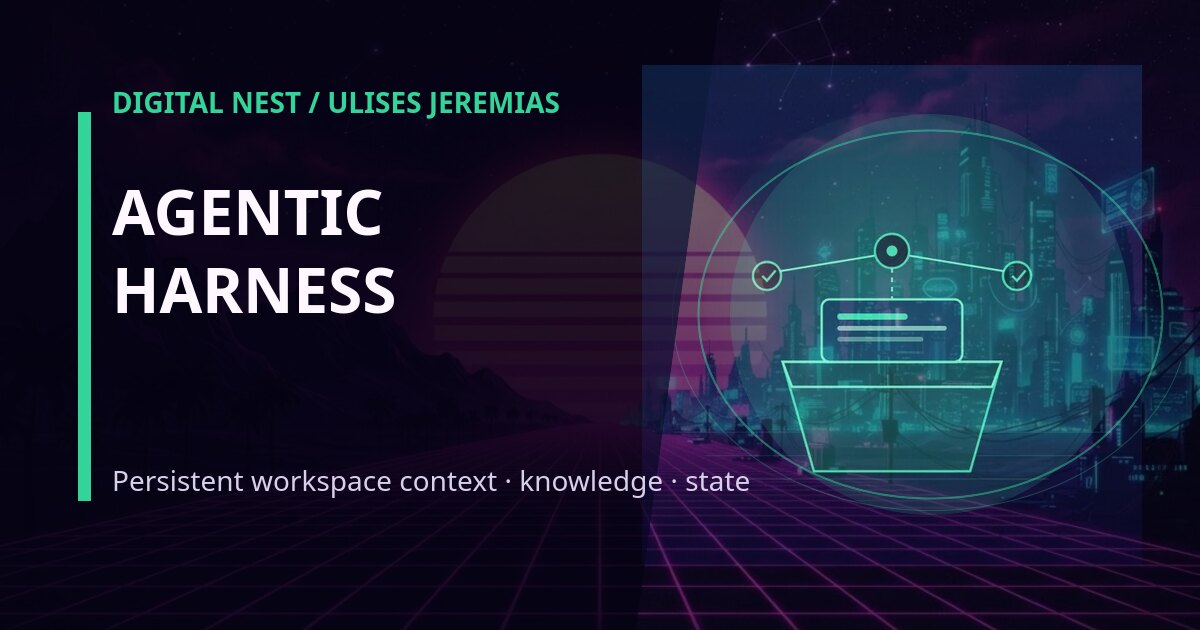
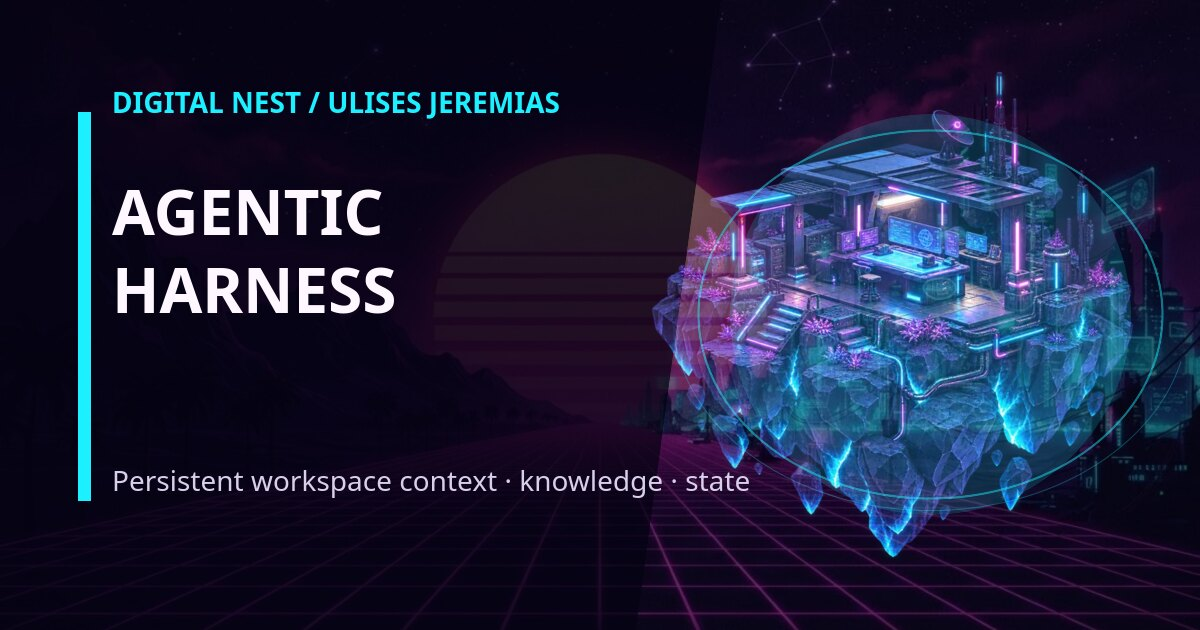
feat(home): add neon floating atlas visuals

Changed region(s): [[0.5242, 0.0905, 0.9558, 0.8746], [0.0617, 0.181, 0.0925, 0.8143], [0.0925, 0.1206, 0.4625, 0.181]]

diff --git a/src/styles/home.css b/src/styles/home.css
@@ -81,6 +81,46 @@
   }
 }
 
+@keyframes neon-city-drift {
+  from {
+    transform: scale(1.04) translate3d(-0.25%, 0, 0);
+  }
+  to {
+    transform: scale(1.08) translate3d(0.25%, -0.45%, 0);
+  }
+}
+
+@keyframes atlas-world-drift {
+  0%,
+  100% {
+    translate: 0 0;
+  }
+  50% {
+    translate: 0 -0.45rem;
+  }
+}
+
+@keyframes atlas-glow-breathe {
+  0%,
+  100% {
+    opacity: 0.52;
+    scale: 0.92 0.82;
+  }
+  50% {
+    opacity: 0.92;
+    scale: 1.08 1.12;
+  }
+}
+
+@keyframes atlas-signal-shift {
+  to {
+    background-position:
+      3rem 0,
+      -2rem 1rem,
+      0 0;
+  }
+}
+
 /* -------------------------------------------------------------------------- */
 /* Hero                                                                       */
 /* -------------------------------------------------------------------------- */
@@ -383,6 +423,21 @@
   flex: 1;
   min-block-size: 36rem;
   overflow: visible;
+  isolation: isolate;
+}
+
+.project-atlas__stage::after {
+  position: absolute;
+  inset: 0.5rem -1rem;
+  z-index: -1;
+  border: 1px solid color-mix(in srgb, var(--nest-cyan) 12%, transparent);
+  background:
+    radial-gradient(ellipse at 50% 8%, color-mix(in srgb, var(--nest-magenta) 13%, transparent), transparent 43%),
+    radial-gradient(ellipse at 12% 72%, color-mix(in srgb, var(--nest-cyan) 11%, transparent), transparent 38%),
+    linear-gradient(180deg, color-mix(in srgb, var(--nest-midnight-950) 15%, transparent), transparent 48%);
+  box-shadow: inset 0 0 4rem color-mix(in srgb, var(--nest-violet) 7%, transparent);
+  content: '';
+  pointer-events: none;
 }
 
 @media (width < 1024px) {
@@ -505,6 +560,38 @@
   transition:
     transform var(--motion-duration-fast) var(--motion-ease-out),
     filter var(--motion-duration-fast) var(--motion-ease-out);
+}
+
+@media (prefers-reduced-motion: no-preference) {
+  .synthwave-environment__plate {
+    animation: neon-city-drift 42s ease-in-out infinite alternate;
+  }
+
+  .atlas-world {
+    animation: atlas-world-drift 7s ease-in-out infinite;
+  }
+
+  .atlas-world:nth-child(3n + 2) {
+    animation-delay: -2.2s;
+    animation-duration: 8.4s;
+  }
+
+  .atlas-world:nth-child(3n) {
+    animation-delay: -4.6s;
+    animation-duration: 7.7s;
+  }
+
+  .atlas-world__glow {
+    animation: atlas-glow-breathe 5s ease-in-out infinite;
+  }
+
+  .project-atlas__stage::after {
+    animation: atlas-signal-shift 28s linear infinite alternate;
+    background-size:
+      auto,
+      auto,
+      100% 100%;
+  }
 }
 
 .atlas-world--lg {
@@ -1028,6 +1115,13 @@
 /* -------------------------------------------------------------------------- */
 
 @media (prefers-reduced-motion: reduce) {
+  .synthwave-environment__plate,
+  .atlas-world,
+  .atlas-world__glow,
+  .project-atlas__stage::after {
+    animation: none !important;
+  }
+
   .atlas-connection {
     animation: none !important;
   }
